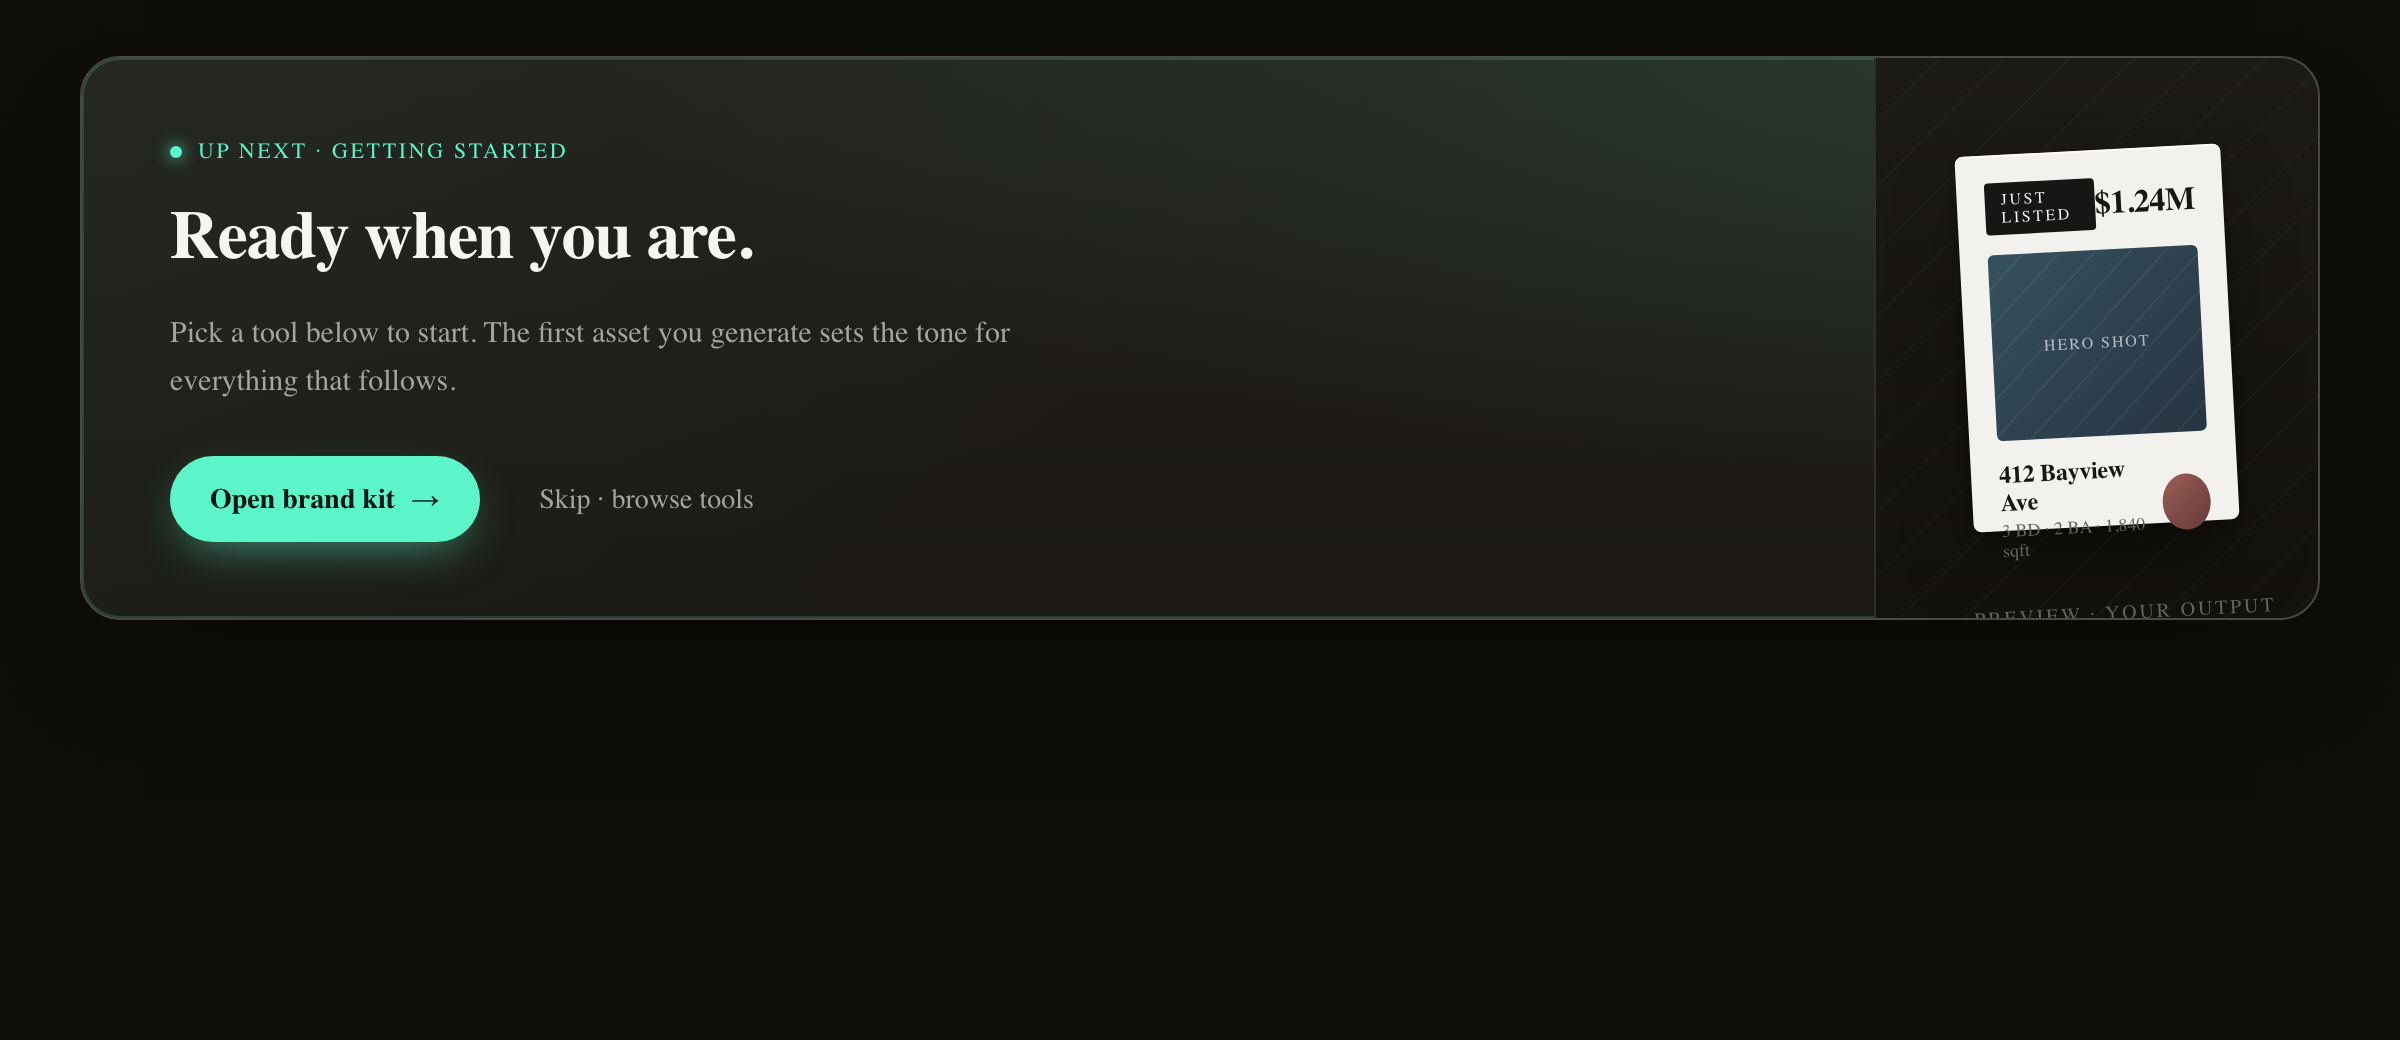
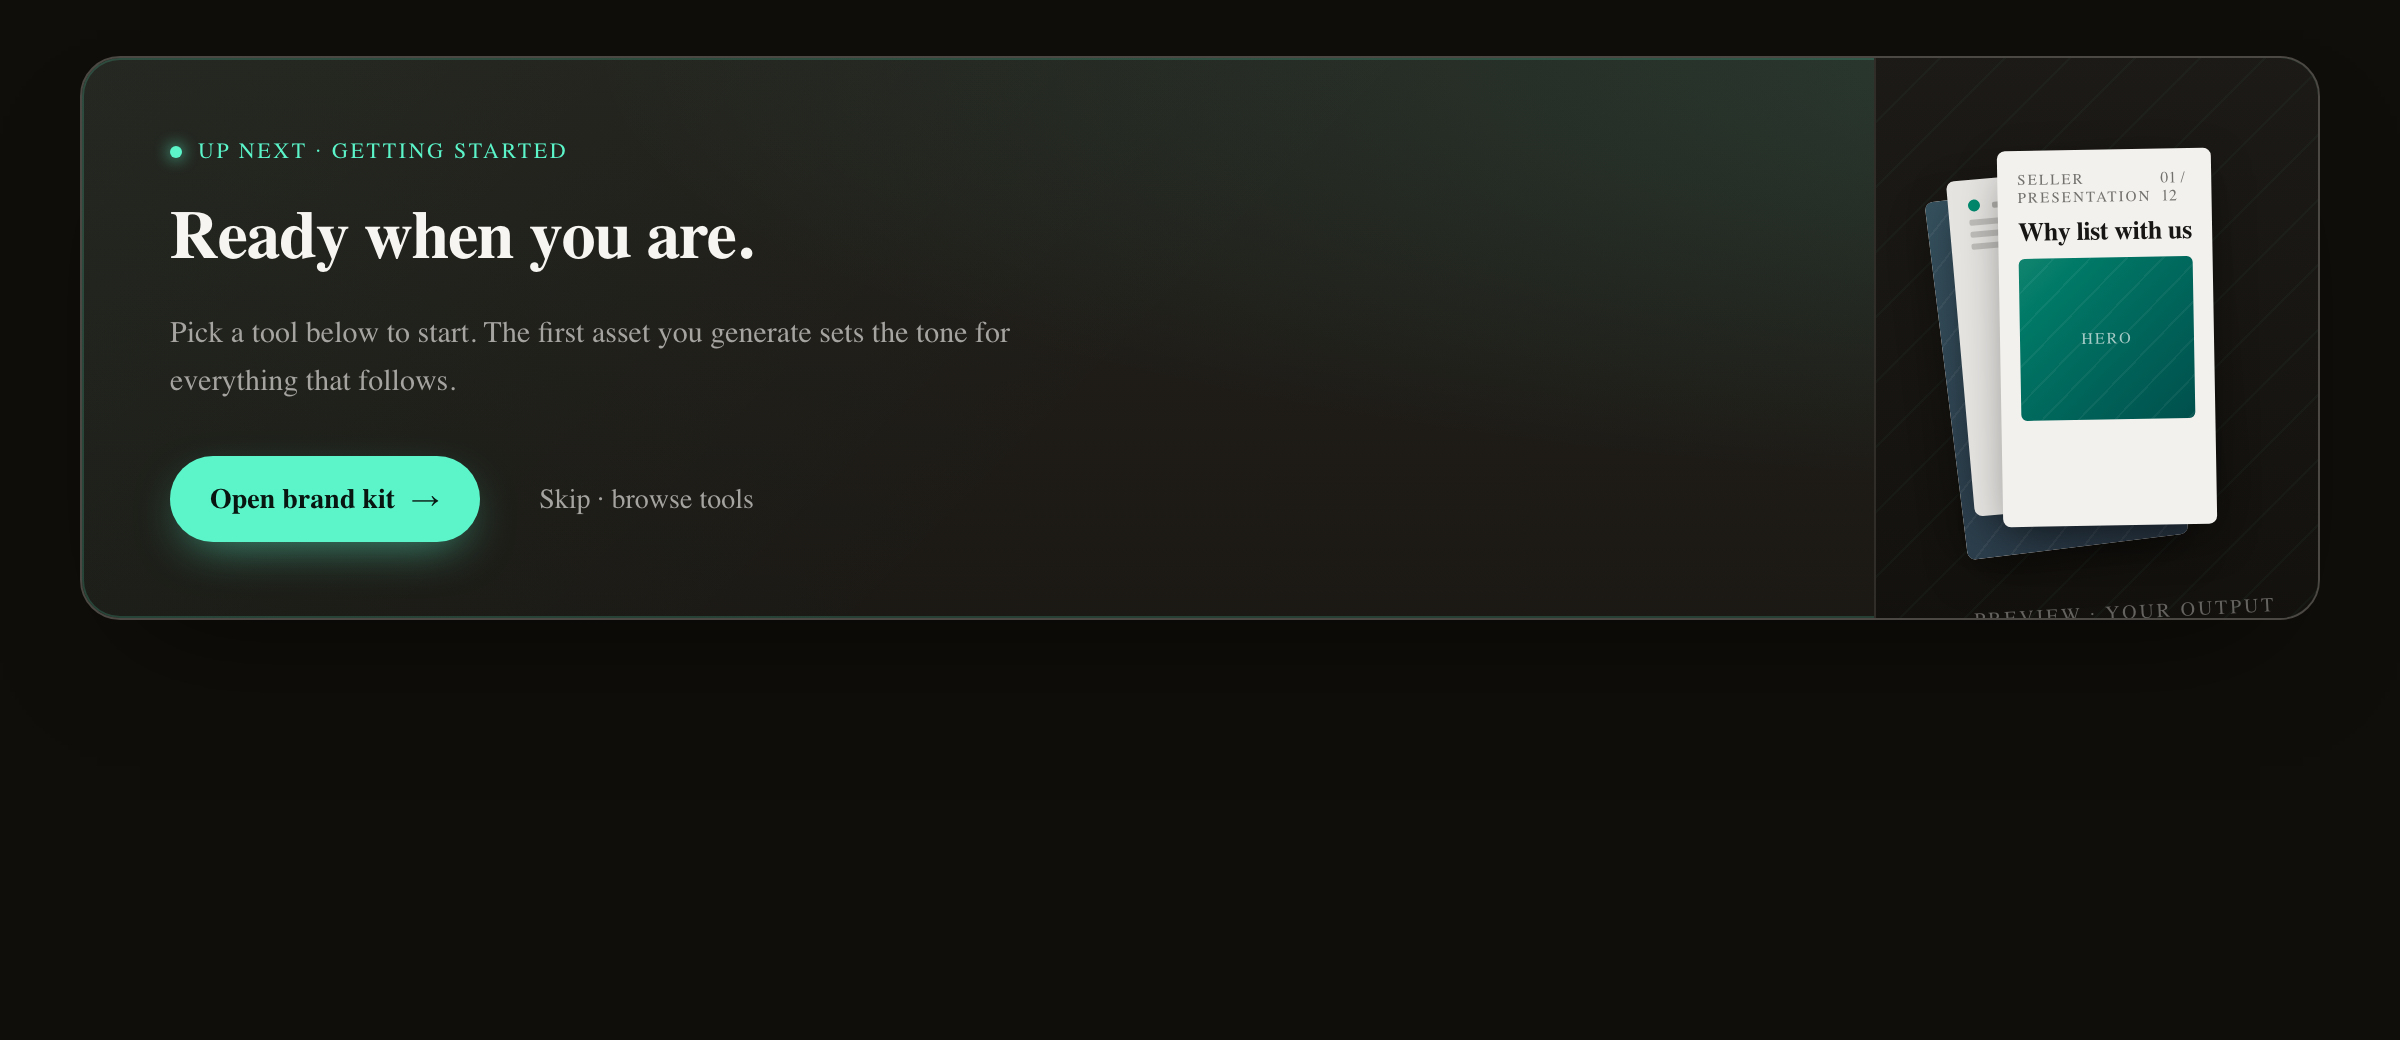
fix(v1.48 v2): resilient PDF read for Vercel-Lambda corruption + poster-pres empty-state polaroid
PDF read-path (the real prod-502 cause): PR #15's instrumentation confirmed
on the preview that hasPdfMagic=false and byteLength != the real file size —
the multipart PDF File read returns corrupt/wrong-length bytes on Vercel's
Lambda while local Node (and the e2e suite) read it cleanly; CSV (UTF-8-safe)
survives, binary PDF doesn't. The route already declares runtime=nodejs, so
that's not it. Instead of betting one read method, readPdfBytesResilient()
tries arrayBuffer -> file.bytes() -> Response(file.stream()) and uses the
FIRST whose bytes start with the "%PDF-" magic, logging file.size/type and
each method's length/first8/magic. One smoke now either fixes it (a method
recovers valid bytes) or proves the File is corrupt at parse time
(file.size already wrong -> client-base64 escalation next). Keeps the PR #15
%PDF guard + calm CSV fallback + structural unit test.

Empty-state polaroid: replace FlyerPoster with the same PresentationPoster
(.poster-pres) HeroPinned renders. FlyerPoster's .flyer-page drops max-width
inside the hero wrap and its address text overflowed even the pinned 165px
wrap; .poster-pres has no long-text content and sits cleanly inside the
column. Keeps the .hero-card-empty 165px pin (the absolute-poster grid-track
collapse affects any poster). HeroPinned + activity HeroNextAction untouched;
mobile still hides the polaroid (<=760px). Before/after in
docs/audits/v1.48/polaroid.

Changed region(s): [[0.7812, 0.1231, 0.9375, 0.5538]]

diff --git a/src/app/api/comp-import/route.ts b/src/app/api/comp-import/route.ts
@@ -290,13 +290,12 @@ export async function POST(req: Request): Promise<NextResponse<ApiOk | ApiErr>> 
     } else if (PDF_EXTENSIONS.has(ext)) {
       mode = "pdf";
       // Read raw bytes — NEVER file.text() (UTF-8 decode mangles binary).
-      // Buffer.from(arrayBuffer) returns a *view* over the ArrayBuffer; wrap
-      // in Uint8Array first to force a contiguous, offset-0 copy. This
-      // defends against runtime-specific ArrayBuffer pooling/offset quirks
-      // (the v1.48 prod 502 was Anthropic rejecting a corrupt base64 PDF
-      // that read cleanly under local Node — see handlePdf instrumentation).
-      const ab = await file.arrayBuffer();
-      pdfBytes = Buffer.from(new Uint8Array(ab));
+      // The v1.48 prod 502 was a corrupt PDF read on Vercel's Lambda
+      // (instrumentation: hasPdfMagic=false, byteLength != file size) while
+      // local Node read it cleanly. readPdfBytesResilient tries three
+      // File->bytes paths and uses the first that yields valid %PDF magic,
+      // and logs which one (and why the others failed) for the smoke.
+      pdfBytes = await readPdfBytesResilient(file, !e2eBypass);
     } else {
       return NextResponse.json(
         {
@@ -447,6 +446,91 @@ export async function POST(req: Request): Promise<NextResponse<ApiOk | ApiErr>> 
  * shape directly (no column-mapping intermediate), and the response
  * shape matches the CSV path so the review modal renders unchanged.
  */
+/**
+ * Resilient PDF byte read (v1.48 prod-502 read-path fix).
+ *
+ * The prod 502 was Anthropic rejecting a corrupt base64 PDF: on Vercel's
+ * Lambda the multipart File read returned non-PDF bytes (instrumentation:
+ * hasPdfMagic=false, byteLength != the real file size) while local Node read
+ * it cleanly. CSV (UTF-8-safe) survived; binary PDF did not.
+ *
+ * Rather than bet on one read method, try the three File->bytes paths in
+ * order and use the FIRST whose bytes start with the "%PDF-" magic. Each
+ * stresses a different layer:
+ *   - arrayBuffer: the canonical path (what was failing in prod).
+ *   - bytes():     Uint8Array straight from undici, skips the ArrayBuffer.
+ *   - stream():    re-reads through a fresh Response, sidestepping whatever
+ *                  mangled the File's own buffer.
+ *
+ * Logs file.size/type + each method's length/first8/magic, so a single smoke
+ * tells us which path is intact — or, if none is (the File is corrupt at
+ * parse time, e.g. file.size is already wrong), that the client-base64
+ * escalation is the next step. Falls back to the first successful read so the
+ * downstream %PDF guard in handlePdf still fires the calm CSV fallback.
+ */
+async function readPdfBytesResilient(
+  file: File,
+  log: boolean,
+): Promise<Buffer> {
+  const attempts: Array<[string, () => Promise<Buffer>]> = [
+    [
+      "arrayBuffer",
+      async () => Buffer.from(new Uint8Array(await file.arrayBuffer())),
+    ],
+    [
+      "bytes",
+      async () => {
+        const f = file as unknown as { bytes?: () => Promise<Uint8Array> };
+        if (typeof f.bytes !== "function") {
+          throw new Error("file.bytes() unavailable on this runtime");
+        }
+        return Buffer.from(await f.bytes());
+      },
+    ],
+    [
+      "stream",
+      async () => Buffer.from(await new Response(file.stream()).arrayBuffer()),
+    ],
+  ];
+
+  const diag: Record<string, unknown> = {
+    fileSize: file.size,
+    fileType: file.type,
+    fileName: file.name,
+  };
+  let chosen: { bytes: Buffer; method: string } | null = null;
+  let fallback: Buffer | null = null;
+
+  for (const [name, read] of attempts) {
+    try {
+      const bytes = await read();
+      fallback ??= bytes;
+      const magic = bytes.subarray(0, 5).toString("latin1") === "%PDF-";
+      diag[name] = {
+        len: bytes.length,
+        first8: bytes.toString("base64").slice(0, 8),
+        magic,
+      };
+      if (magic && !chosen) chosen = { bytes, method: name };
+    } catch (err) {
+      diag[name] = { error: err instanceof Error ? err.message : String(err) };
+    }
+  }
+
+  if (log) {
+    console.log("[comp-import] PDF read diag", {
+      chosen: chosen?.method ?? "none",
+      ...diag,
+    });
+  }
+
+  if (chosen) return chosen.bytes;
+  // No method produced valid magic — hand back the first successful read (or
+  // an empty buffer if every read threw) so the %PDF guard surfaces the calm
+  // fallback rather than crashing.
+  return fallback ?? Buffer.alloc(0);
+}
+
 async function handlePdf(
   pdfBytes: Buffer,
   e2eBypass: boolean,

diff --git a/src/app/dashboard/sep-studio.css b/src/app/dashboard/sep-studio.css
@@ -392,19 +392,18 @@
 }
 
 /* ─── hero card — empty-state variant (HeroEmptyState polaroid cap) ──────── */
-/* The empty-state hero renders the FlyerPoster, whose .flyer-page drops its
- * max-width inside .hero-poster-wrap (the `.hero-poster-wrap .flyer-page {
- * max-width: none }` rule below). Because .poster is position:absolute, the
- * wrap's `width: 100%` contributes ~0 to the `auto` hero grid track, so
- * .hero-right collapses to its padding and the flyer renders at its own
- * content width — overflowing and clipping at the card's right edge (v1.48
- * desktop bug). Pinning the wrap to a definite 165px (its existing
+/* Because .poster is position:absolute, .hero-poster-wrap's `width: 100%`
+ * contributes ~0 to the `auto` hero grid track, so .hero-right collapses to
+ * its padding and the poster renders at its own content width — overflowing
+ * and clipping at the card's right edge (v1.48 desktop bug). HeroEmptyState
+ * now renders the same PresentationPoster (.poster-pres) HeroPinned uses
+ * (see HeroNextAction.tsx) — it has no long-text content to overflow, unlike
+ * the old FlyerPoster. Pinning the wrap to a definite 165px (its existing
  * max-width; aspect-ratio 3/4 then resolves the 220px height) anchors the
- * absolute poster and bounds the grid track, so the polaroid sits fully
- * inside the column the way the pinned hero's does. Scoped to
- * .hero-card-empty only — HeroPinned (.poster-pres) and the activity-engine
- * HeroNextAction are untouched. Mobile still hides .hero-right (≤760px), so
- * the polaroid never appears on narrow screens. */
+ * absolute poster and bounds the grid track so the polaroid sits fully
+ * inside the column. Scoped to .hero-card-empty only — HeroPinned and the
+ * activity-engine HeroNextAction are untouched. Mobile still hides
+ * .hero-right (≤760px), so the polaroid never appears on narrow screens. */
 .sep-studio .hero-card-empty .hero-poster-wrap {
   width: 165px;
   flex: 0 0 auto;

diff --git a/src/app/dashboard/components/HeroNextAction.tsx b/src/app/dashboard/components/HeroNextAction.tsx
@@ -191,7 +191,13 @@ export function HeroEmptyState() {
       </div>
       <div className="hero-right">
         <div className="hero-poster-wrap">
-          {posterForSkillId('listing-flyer')}
+          {/* v1.48: render the same PresentationPoster (.poster-pres) that
+              HeroPinned uses. FlyerPoster's .flyer-page drops its max-width
+              inside the hero wrap and its address text overflowed even the
+              pinned 165px wrap; .poster-pres has no long-text content and
+              sits cleanly inside the column. Representative-mock parity —
+              both read "your output goes here." */}
+          {posterForSkillId('seller-presentation')}
           <div className="hero-poster-tag">PREVIEW · YOUR OUTPUT</div>
         </div>
       </div>